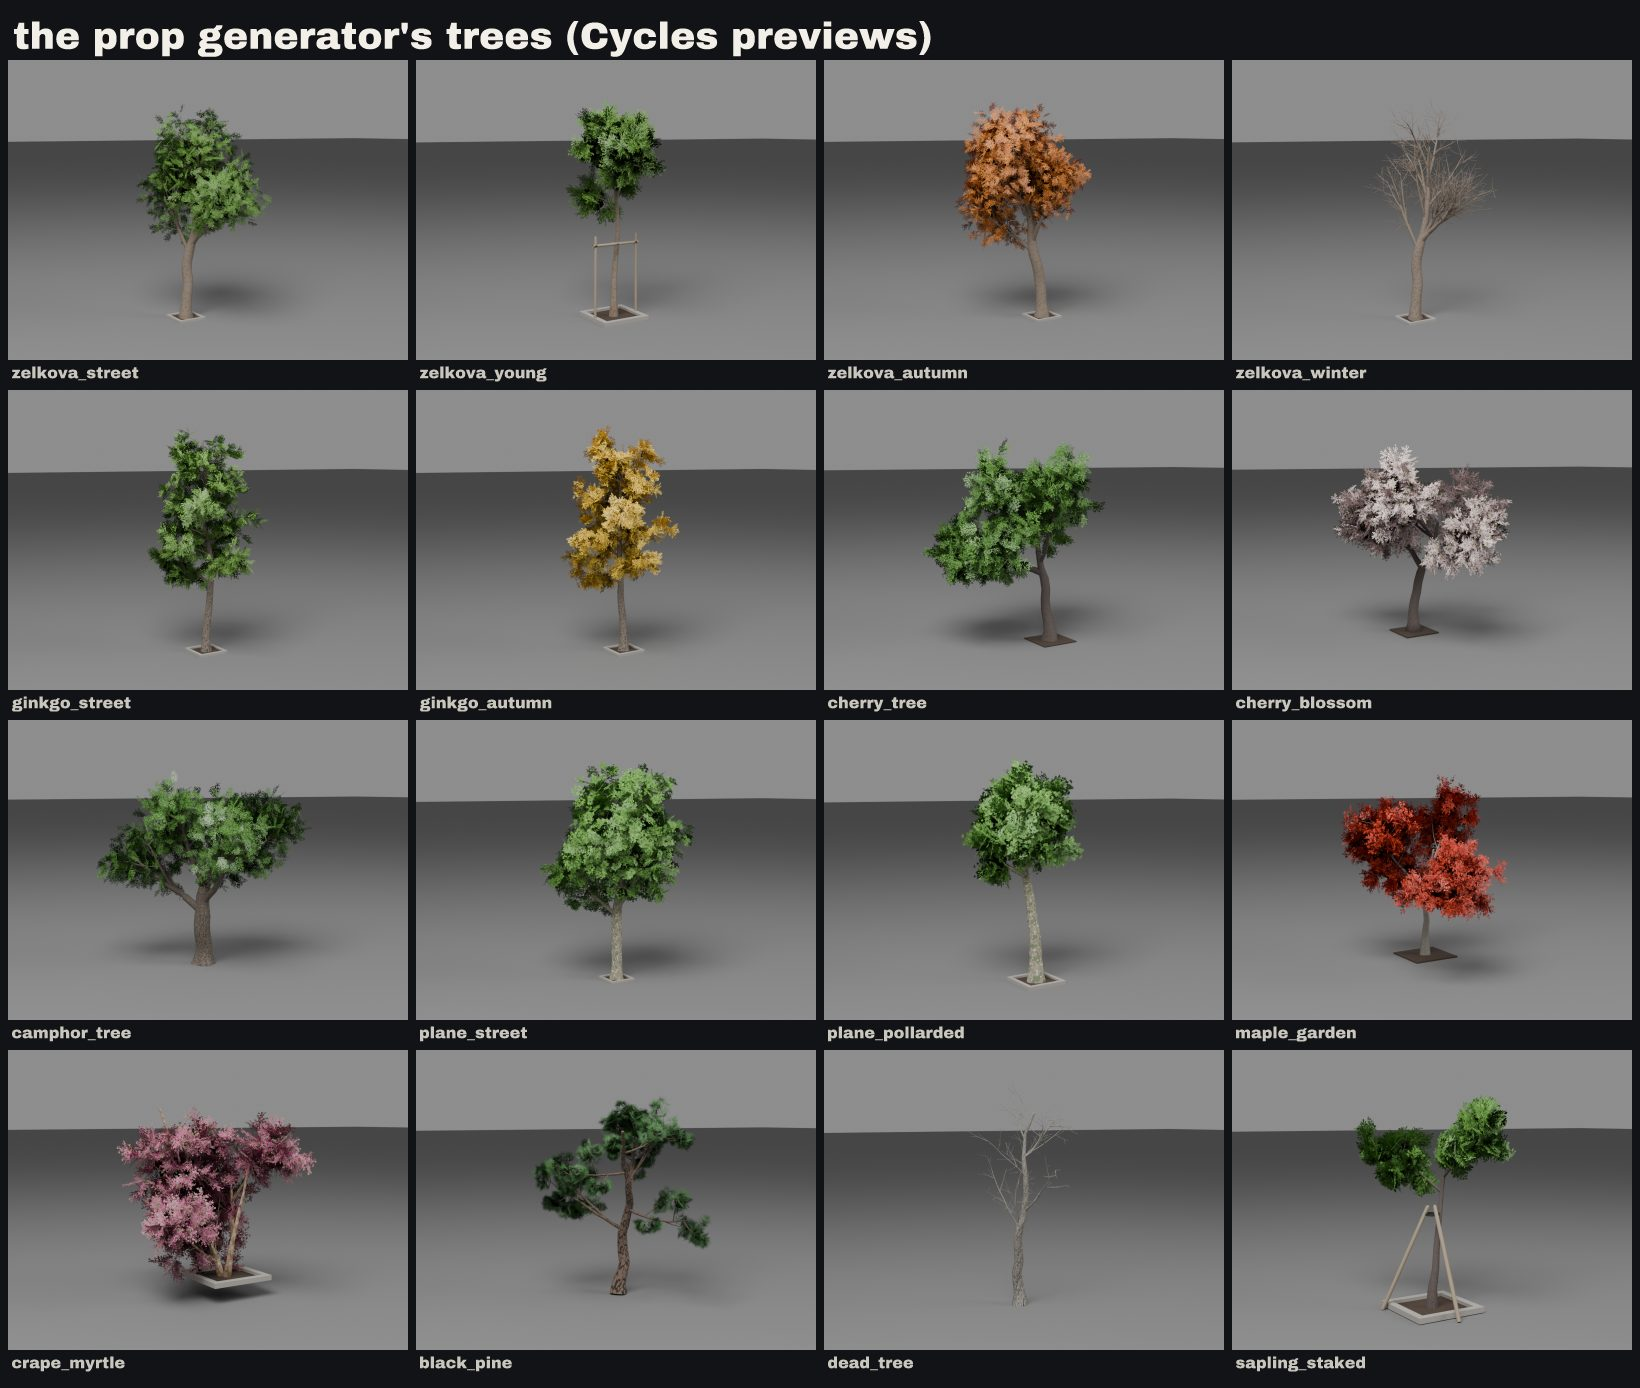
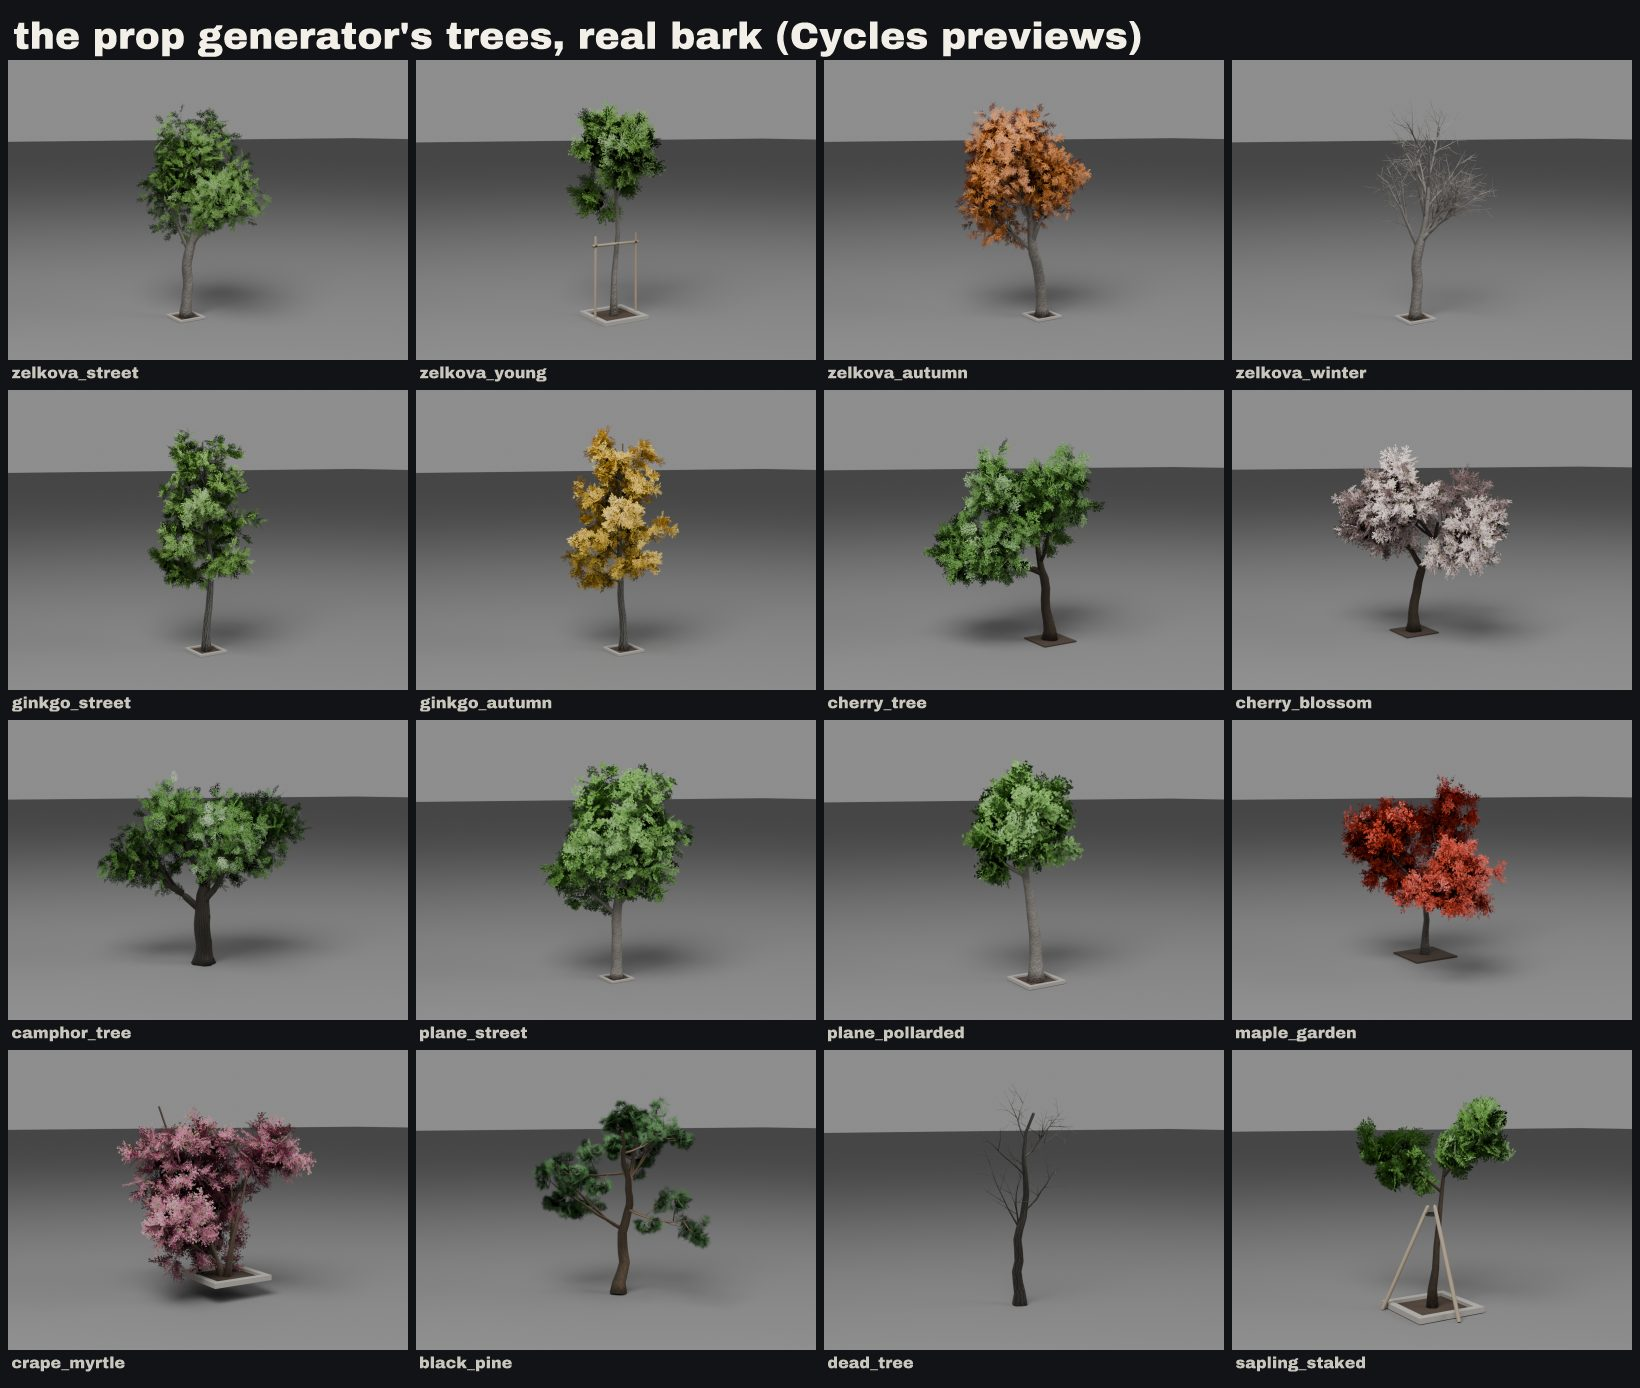
Every tree's bark a real one: the user's ambientCG bark sets by species
The user pushed three bark sets (pbr/bark/Bark001, 006, 014) and asked that every tree use the more real bark PBR.
Each species now names one by default (bark.pbr: Bark001 grey and deeply furrowed for the ginkgo, the camphor and the
dead tree; Bark006 grey-blue mottled with orange flakes for the zelkova, the plane, the maple and the crape myrtle;
Bark014 red-brown fissured plates for the pine and the cherry), laid over the whole bark tile with a whole number of
repeats each way at the set's own size (a 1 x 2 m set repeats half as often up), so it still goes round and up every
branch without a seam; bark.tint over it, bark.tile and bark.relief. The drawn tile stays behind "bark": {"pbr": null}.
pbrset reads a set's tile_v_m; the seven new sets get their meta (sizes, labels).

Claude-Session: https://claude.ai/code/session_014EE6XUyiHibXELppYkiaXY

diff --git a/tools/propgen/families/tree.py b/tools/propgen/families/tree.py
@@ -16,7 +16,8 @@ to a clear stem (`clear`), and a young one is held by stakes (`stakes`) in a tre
     "pit": "none" | "kerb" | "soil"
     "twigs": "auto" | "mesh" | "cards"
 
-`height` metres over all; `clear` the trunk below the first branch; `spread` turns the branches out (1 the species'
+`bark`: `pbr` a set off the shelf (each species' real bark by default: pbr/bark/Bark001, 006 or 014; null for the
+tile drawn by code), `tile` metres a repeat, `tint`, `relief`; `height` metres over all; `clear` the trunk below the first branch; `spread` turns the branches out (1 the species'
 own), `droop` is gravity on them, `density` how many, `crown` their length, `levels` how many orders of branches (2 or
 3; the last order carries the leaves, meshed only when the tree is bare unless `twigs` says); `lean` degrees off the
 vertical; `pollard` cuts a plane tree back to knuckles with a broom of shoots; `multi` grows several stems from the
@@ -53,7 +54,7 @@ SPECIES = {
              "flatness": 0.4, "break": 0.03, "resolution": 6}],
         "leaf": {"shape": "elliptic", "mm": (52, 26), "serrate": True, "card": 0.5, "cluster": 9, "gloss": 0.5, "count": 2600,
                  "colors": {"summer": ["#4d7a2c", "#6a9a3a"], "spring": ["#7fb04a", "#a6cc62"], "autumn": ["#c9702a", "#d9a63a", "#b8482a"]}},
-        "bark": {"style": "flaky", "color": "#7c7268", "flake": "#8e6c4c", "relief": 1.0},
+        "bark": {"style": "flaky", "color": "#7c7268", "flake": "#8e6c4c", "relief": 1.0, "pbr": "pbr/bark/Bark006_1K-PNG"},
         "pipe": {"end": 0.0035, "growth": 0.6, "power": 2.4},
     },
     "ginkgo": {  # イチョウ: upright, a narrow crown of short limbs, fan leaves gold in autumn, furrowed grey bark
@@ -70,7 +71,7 @@ SPECIES = {
              "flatness": 0.4, "break": 0.03, "resolution": 6}],
         "leaf": {"shape": "fan", "mm": (58, 70), "card": 0.46, "cluster": 8, "gloss": 0.5, "count": 2300,
                  "colors": {"summer": ["#5c8a37", "#7aa84a"], "spring": ["#86b652", "#a9cf6a"], "autumn": ["#e8c23a", "#f0d050", "#d9a82c"]}},
-        "bark": {"style": "furrowed", "color": "#857a6d", "crack": "#4a423a", "relief": 1.0},
+        "bark": {"style": "furrowed", "color": "#857a6d", "crack": "#4a423a", "relief": 1.0, "pbr": "pbr/bark/Bark001_1K-PNG"},
         "pipe": {"end": 0.0035, "growth": 0.7, "power": 2.5},
     },
     "cherry": {  # ソメイヨシノ: a low fork, spreading limbs, lenticelled dark bark; blossom in spring
@@ -88,7 +89,7 @@ SPECIES = {
         "leaf": {"shape": "ovate", "mm": (78, 42), "serrate": True, "card": 0.52, "cluster": 8, "gloss": 0.5, "count": 2400,
                  "colors": {"summer": ["#4a7a30", "#699c42"], "spring": ["#f7dde7", "#f2c9d8"], "autumn": ["#c9562a", "#d98a2e", "#a63a22"]},
                  "blossom": "spring"},
-        "bark": {"style": "lenticels", "color": "#4f4642", "lenticel": "#a39383", "relief": 1.0},
+        "bark": {"style": "lenticels", "color": "#4f4642", "lenticel": "#a39383", "relief": 1.0, "pbr": "pbr/bark/Bark014_1K-PNG", "tint": "#9a9a9c"},
         "pipe": {"end": 0.0035, "growth": 0.7, "power": 2.4},
     },
     "camphor": {  # クスノキ: a broad dome of glossy evergreen leaves over a thick, deeply furrowed trunk
@@ -105,7 +106,7 @@ SPECIES = {
              "flatness": 0.4, "break": 0.03, "resolution": 6}],
         "leaf": {"shape": "elliptic", "mm": (88, 38), "card": 0.56, "cluster": 8, "gloss": 0.32, "count": 2600,
                  "colors": {"summer": ["#3e6b2a", "#5f8f3c"], "spring": ["#6b9a3c", "#9fc45a"], "autumn": ["#3e6b2a", "#5f8f3c"]}},
-        "bark": {"style": "furrowed", "color": "#6f655a", "crack": "#3a332c", "relief": 1.3, "scale": 1.3},
+        "bark": {"style": "furrowed", "color": "#6f655a", "crack": "#3a332c", "relief": 1.3, "scale": 1.3, "pbr": "pbr/bark/Bark001_1K-PNG", "tint": "#b0a898"},
         "pipe": {"end": 0.004, "growth": 0.9, "power": 2.4},
     },
     "plane": {  # プラタナス: big lobed leaves, bark in camouflage plates; along a street, often pollarded (`pollard`)
@@ -122,7 +123,7 @@ SPECIES = {
              "flatness": 0.4, "break": 0.03, "resolution": 6}],
         "leaf": {"shape": "palmate", "mm": (150, 150), "lobes": 5, "card": 0.6, "cluster": 5, "gloss": 0.55, "count": 2000,
                  "colors": {"summer": ["#558a36", "#74a84a"], "spring": ["#7fb04a", "#a0c862"], "autumn": ["#b8863a", "#c9a24a", "#8f5a2a"]}},
-        "bark": {"style": "mottled", "color": "#9a9484", "patches": ["#6f7a5a", "#d9d2bc", "#8d8470"], "relief": 0.6},
+        "bark": {"style": "mottled", "color": "#9a9484", "patches": ["#6f7a5a", "#d9d2bc", "#8d8470"], "relief": 0.6, "pbr": "pbr/bark/Bark006_1K-PNG"},
         "pipe": {"end": 0.004, "growth": 0.7, "power": 2.4},
     },
     "maple": {  # イロハモミジ: a small, layered tree with palmate leaves that turn deep red; smooth grey bark
@@ -139,7 +140,7 @@ SPECIES = {
              "flatness": 0.6, "break": 0.03, "resolution": 6}],
         "leaf": {"shape": "palmate", "mm": (68, 72), "lobes": 7, "card": 0.42, "cluster": 7, "gloss": 0.5, "count": 2200,
                  "colors": {"summer": ["#4f8a36", "#73ad4a"], "spring": ["#8fbf52", "#b9d86a"], "autumn": ["#c8321f", "#e0522a", "#8f1e14"]}},
-        "bark": {"style": "smooth", "color": "#7f7a72", "relief": 0.5},
+        "bark": {"style": "smooth", "color": "#7f7a72", "relief": 0.5, "pbr": "pbr/bark/Bark006_1K-PNG", "tint": "#a8a6a4"},
         "pipe": {"end": 0.003, "growth": 0.5, "power": 2.4},
     },
     "crape_myrtle": {  # サルスベリ: several smooth, mottled stems from the ground, a round head, pink flowers in summer
@@ -157,7 +158,7 @@ SPECIES = {
         "leaf": {"shape": "elliptic", "mm": (48, 26), "card": 0.42, "cluster": 9, "gloss": 0.45, "count": 1300,
                  "colors": {"summer": ["#4a7d36", "#6a9e48"], "spring": ["#7fae4c", "#a6cc62"], "autumn": ["#c4542b", "#d9862e", "#8f2e1c"]},
                  "flowers": "summer", "flower": "#d8569a"},
-        "bark": {"style": "mottled", "color": "#b59d82", "patches": ["#8e7256", "#d4c2a8", "#a08a70"], "relief": 0.4},
+        "bark": {"style": "mottled", "color": "#b59d82", "patches": ["#8e7256", "#d4c2a8", "#a08a70"], "relief": 0.4, "pbr": "pbr/bark/Bark006_1K-PNG", "tint": "#c8b49c"},
         "pipe": {"end": 0.003, "growth": 0.4, "power": 2.4},
     },
     "pine": {  # クロマツ: a leaning trunk, a few bold level limbs, tufts of needles at their ends, scaly bark
@@ -174,7 +175,7 @@ SPECIES = {
              "flatness": 0.3, "break": 0.02, "resolution": 6}],
         "leaf": {"shape": "needles", "mm": (110, 110), "card": 0.36, "cluster": 1, "gloss": 0.55, "count": 2400,
                  "colors": {"summer": ["#2f5a2e", "#4a7a3e"], "spring": ["#3f6f36", "#6a9a4a"], "autumn": ["#2f5a2e", "#4a7a3e"]}},
-        "bark": {"style": "scaly", "color": "#6b5a4e", "crack": "#2a2320", "plate": "#8a6e5a", "relief": 1.4},
+        "bark": {"style": "scaly", "color": "#6b5a4e", "crack": "#2a2320", "plate": "#8a6e5a", "relief": 1.4, "pbr": "pbr/bark/Bark014_1K-PNG"},
         "pipe": {"end": 0.004, "growth": 0.9, "power": 2.4},
     },
     "dead": {  # a dead tree: bare, bleached, its branches broken short, bending down
@@ -190,7 +191,7 @@ SPECIES = {
              "randomness": 0.6, "gravity": 4.0, "stiffness": 0.1, "split": 0.3, "split_angle": 40, "split_radius": 0.8, "up": 0.1,
              "flatness": 0.4, "break": 0.15, "resolution": 6}],
         "leaf": {"shape": "elliptic", "mm": (50, 25), "card": 0.4, "cluster": 8, "gloss": 0.6, "count": 0, "colors": {"summer": ["#6a6050", "#7a7060"]}},
-        "bark": {"style": "furrowed", "color": "#8d8880", "crack": "#44403a", "relief": 1.2, "scale": 1.2},
+        "bark": {"style": "furrowed", "color": "#8d8880", "crack": "#44403a", "relief": 1.2, "scale": 1.2, "pbr": "pbr/bark/Bark001_1K-PNG", "tint": "#c4c0b8"},
         "pipe": {"end": 0.003, "growth": 0.5, "power": 2.6},
     },
 }
@@ -649,9 +650,13 @@ def _tiled(fn, X, Y, W, H, scale, stretch=1.0):
 
 
 def paint_bark(f, bark, seed, C):
-    """The bark tile: its style's relief and colours, every field tiling round and up (4D noise on the flat torus)."""
+    """The bark tile: a PBR set off the shelf (`pbr`, the species' real bark by default: its repeats snapped to the tile
+    so it still goes round and up without a seam, `tile` metres a repeat across, `tint` over it), or, with `pbr` null,
+    its style's relief and colours drawn by code, every field tiling round and up (4D noise on the flat torus)."""
     X, Y = f.grid()
     W, H = f.W, f.H
+    if bark.get("pbr"):
+        return paint_bark_pbr(f, bark, X, Y, W, H)
     style = bark.get("style", "furrowed")
     base = rgb(bark["color"])
     relief = float(bark.get("relief", 1.0))
@@ -728,6 +733,28 @@ def paint_bark(f, bark, seed, C):
         rough = rough - 0.08
     f.lay_island(np.ones_like(X), color=np.clip(col, 0, 1).astype(np.float32), rough=np.clip(rough, 0.3, 1).astype(np.float32),
                  metal=0.0, height=height.astype(np.float32))
+
+
+def paint_bark_pbr(f, bark, X, Y, W, H):
+    """A bark set laid over the whole tile: `tile` metres a repeat across (the set's own tile_m), its height from its
+    own shape (a 1 x 2 m set repeats half as often up), a whole number of repeats each way so the edges meet; the
+    set's colour times `tint`, its roughness, its normal at `relief` strength."""
+    from .. import pbrset
+    st = pbrset.load(bark["pbr"])
+    alb = st.maps["albedo"]
+    aspect = alb.shape[0] / alb.shape[1]
+    tile = float(bark.get("tile") or st.tile_m) * 1000.0                  # mm across one repeat
+    tile_v = float(getattr(st, "tile_v_m", 0.0) or 0.0) * 1000.0 or tile * aspect
+    n_u = max(1, int(round(W / tile)))
+    n_v = max(1, int(round(H / tile_v)))
+    smp = st.sample(X / W * n_u, Y / H * n_v)
+    col = smp["albedo"]
+    if bark.get("tint"):
+        col = col * rgb(bark["tint"])[None, None] / max(float(rgb(bark["tint"]).mean()), 1e-6) * 0.62
+    n = smp["normal"].copy()
+    n[..., :2] *= float(bark.get("relief", 1.0))
+    n /= np.maximum(np.linalg.norm(n, axis=-1, keepdims=True), 1e-6)
+    f.lay_island(np.ones_like(X), color=np.clip(col, 0, 1).astype(np.float32), rough=smp["rough"], metal=0.0, normal=n.astype(np.float32))
 
 
 # ---- paint: the leaves ----------------------------------------------------------------------------------------------------------

diff --git a/tools/propgen/pbrset.py b/tools/propgen/pbrset.py
@@ -88,6 +88,7 @@ def load(ref, size=1024):
         maps["rough"] = orm[..., 1:2].repeat(3, -1)
         maps["metal"] = orm[..., 2:3].repeat(3, -1)
     st = Set(str(ref), maps, m.get("tile_m", 2.0))
+    st.tile_v_m = float(m["tile_v_m"]) if m.get("tile_v_m") else None        # a set taller than wide (a 1 x 2 m bark)
     _sets[key] = st
     return st
 

diff --git a/docs/PROPGEN.md b/docs/PROPGEN.md
@@ -767,9 +767,16 @@ words.
   the crown's middle, lifted) so the mass lights as one, not as flat cards; `leaves.count` how many (the species'
   own), `leaves.size` metres a card. A street tree is 9k to 26k triangles leafy (a camphor's dome the most), a bare one with its twigs 20k to
   30k; a sapling 2k.
-- **Painted**, all of it by code: the **bark** one tile over the whole of its texture, drawn on the flat torus with
-  4D noise (`noise.fbm4`, `ridged4`: it repeats round and up with no seam and nothing squeezed) in the species'
-  style: `furrowed` (ginkgo, camphor, the dead tree: ridges up the trunk, dark cracks between), `flaky` (zelkova:
+- **The bark is a real one by default** (the user, 2026-11-02: "every tree should use the more real bark pbr"): each
+  species names a bark set off the shelf (`bark.pbr`: the user's ambientCG sets in `pbr/bark/`, Bark001 grey and
+  deeply furrowed for the ginkgo, the camphor and the dead tree, Bark006 grey-blue mottled with orange flakes for the
+  zelkova, the plane, the maple and the crape myrtle, Bark014 red-brown fissured plates for the pine and the cherry;
+  `bark.tint` over it, `bark.tile` metres a repeat, `bark.relief` the normal's strength). The set is laid over the
+  whole bark tile with a whole number of repeats each way (its own size: a 1 x 2 m set repeats half as often up), so
+  it still goes round and up every branch without a seam. `"bark": {"pbr": null}` draws the tile by code instead:
+- **Painted by code**, the rest of it, and the drawn **bark** when asked: one tile over the whole of its texture, drawn
+  on the flat torus with 4D noise (`noise.fbm4`, `ridged4`: it repeats round and up with no seam and nothing
+  squeezed) in the species' style: `furrowed` (ginkgo, camphor, the dead tree: ridges up the trunk, dark cracks between), `flaky` (zelkova:
   grey flaking to orange-brown patches with a dark rim), `lenticels` (cherry: dark bark banded with pale lenticels,
   a few cracks), `mottled` (plane, crape myrtle: plates of three colours), `scaly` (pine: a jigsaw of plates parted by
   deep fissures), `smooth` (maple); `bark.color`, `bark.relief`, `bark.scale`; or a PBR set off the shelf

diff --git a/docs/CONTINUE.md b/docs/CONTINUE.md
@@ -26,7 +26,9 @@ sixteen recipes. Framework: `surface.material` cuts alpha (`alpha="clip"`, the g
 a mesh's own normals (`a["normal"]`), `build.run` skips the per-texel raster where nothing reads it (the wear) and the
 occlusion bake when a thing says so. The user then asked for the trees by night: `propgen.py godot --night` pictures
 any prop under the game's blue moon and in the dark under the flashlight from the player's eye (the sheets in
-`docs/godot_sheets/2026-11-02_trees.jpg` and `_trees_night.jpg`). Next, if the user wants: their own look at the trees on the 3090 (the page shows
+`docs/godot_sheets/2026-11-02_trees.jpg` and `_trees_night.jpg`). Then the user pushed three ambientCG bark sets and
+four leaf sets (`pbr/bark/`, `pbr/leaf/`): every species' bark is now a real one by default (`bark.pbr`, the drawn
+tile behind `pbr: null`), and the leaves' realistic category follows (`tools/propgen/leafset.py`). Next, if the user wants: their own look at the trees on the 3090 (the page shows
 them as cards, `python tools/propgen/serve.py`), wind on the cards (a vertex shader in the look plugin), a bush family
 (azalea hedges, clipped balls), the street builder's `tree` stand-in swapped for a made tree by the Godot drop, lower
 LODs (the twigs' sides, fewer cards) for a street of them.

diff --git a/docs/DECISIONS.md b/docs/DECISIONS.md
@@ -13,6 +13,11 @@ The user's answers, newest first. They override the plan, the research and the d
   generator grew a `tree` family (PROPGEN §18): urban street trees (zelkova, ginkgo, cherry, camphor, plane, maple,
   crape myrtle, black pine, a dead one) by season, with stakes and a tree pit, sixteen recipes to start from.
   Built on the branch `procedural-trees`.
+- **"In main I just pushed up some new pbrs for bark, and leaves ... Do these steps separately, every tree should use
+  the more real bark pbr. But for leaves create a more realistic category where you use patterns made from the pbrs I
+  shared with you for the leaves"**: step one, every species' bark is one of the three ambientCG bark sets by
+  default (`pbr/bark/`, PROPGEN §18; the drawn tile stays behind `"bark": {"pbr": null}`); step two, a realistic
+  category of trees whose leaf cards are sprays laid from the leaf sets' own leaves (`pbr/leaf/`).
 - **"make sure generated trees also look good in night both dark night (flashlight style), or more of a blue hue
   atmospheric night"**: `propgen.py godot --night` pictures any prop in Godot under the game's blue moonlit night
   and in the dark under the player's flashlight from the player's eye (PROPGEN §18); the sixteen trees' sheet is
